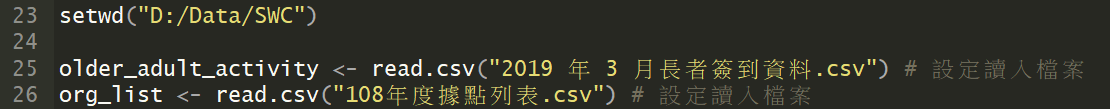
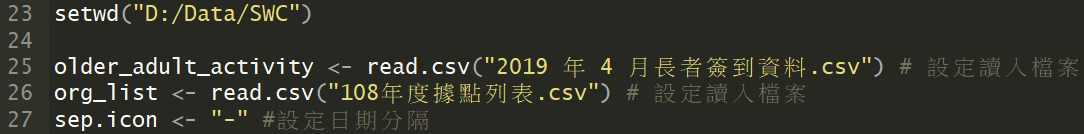
revised read me

Changed region(s): [[0.0, 0.0275, 1.0, 0.9908]]

diff --git a/README.md b/README.md
@@ -12,7 +12,7 @@
 install.pakages("tidyr")
 ```
 
-3. 待套件安裝好後，還需在執行前修改本機路徑及需要讀入之資料(黃色部分):
+3. 待套件安裝好後，還需在執行前修改本機路徑及需要讀入之資料、日期分隔符號等(黃色部分):
 	
 
 ![](./img/setwd.png)
